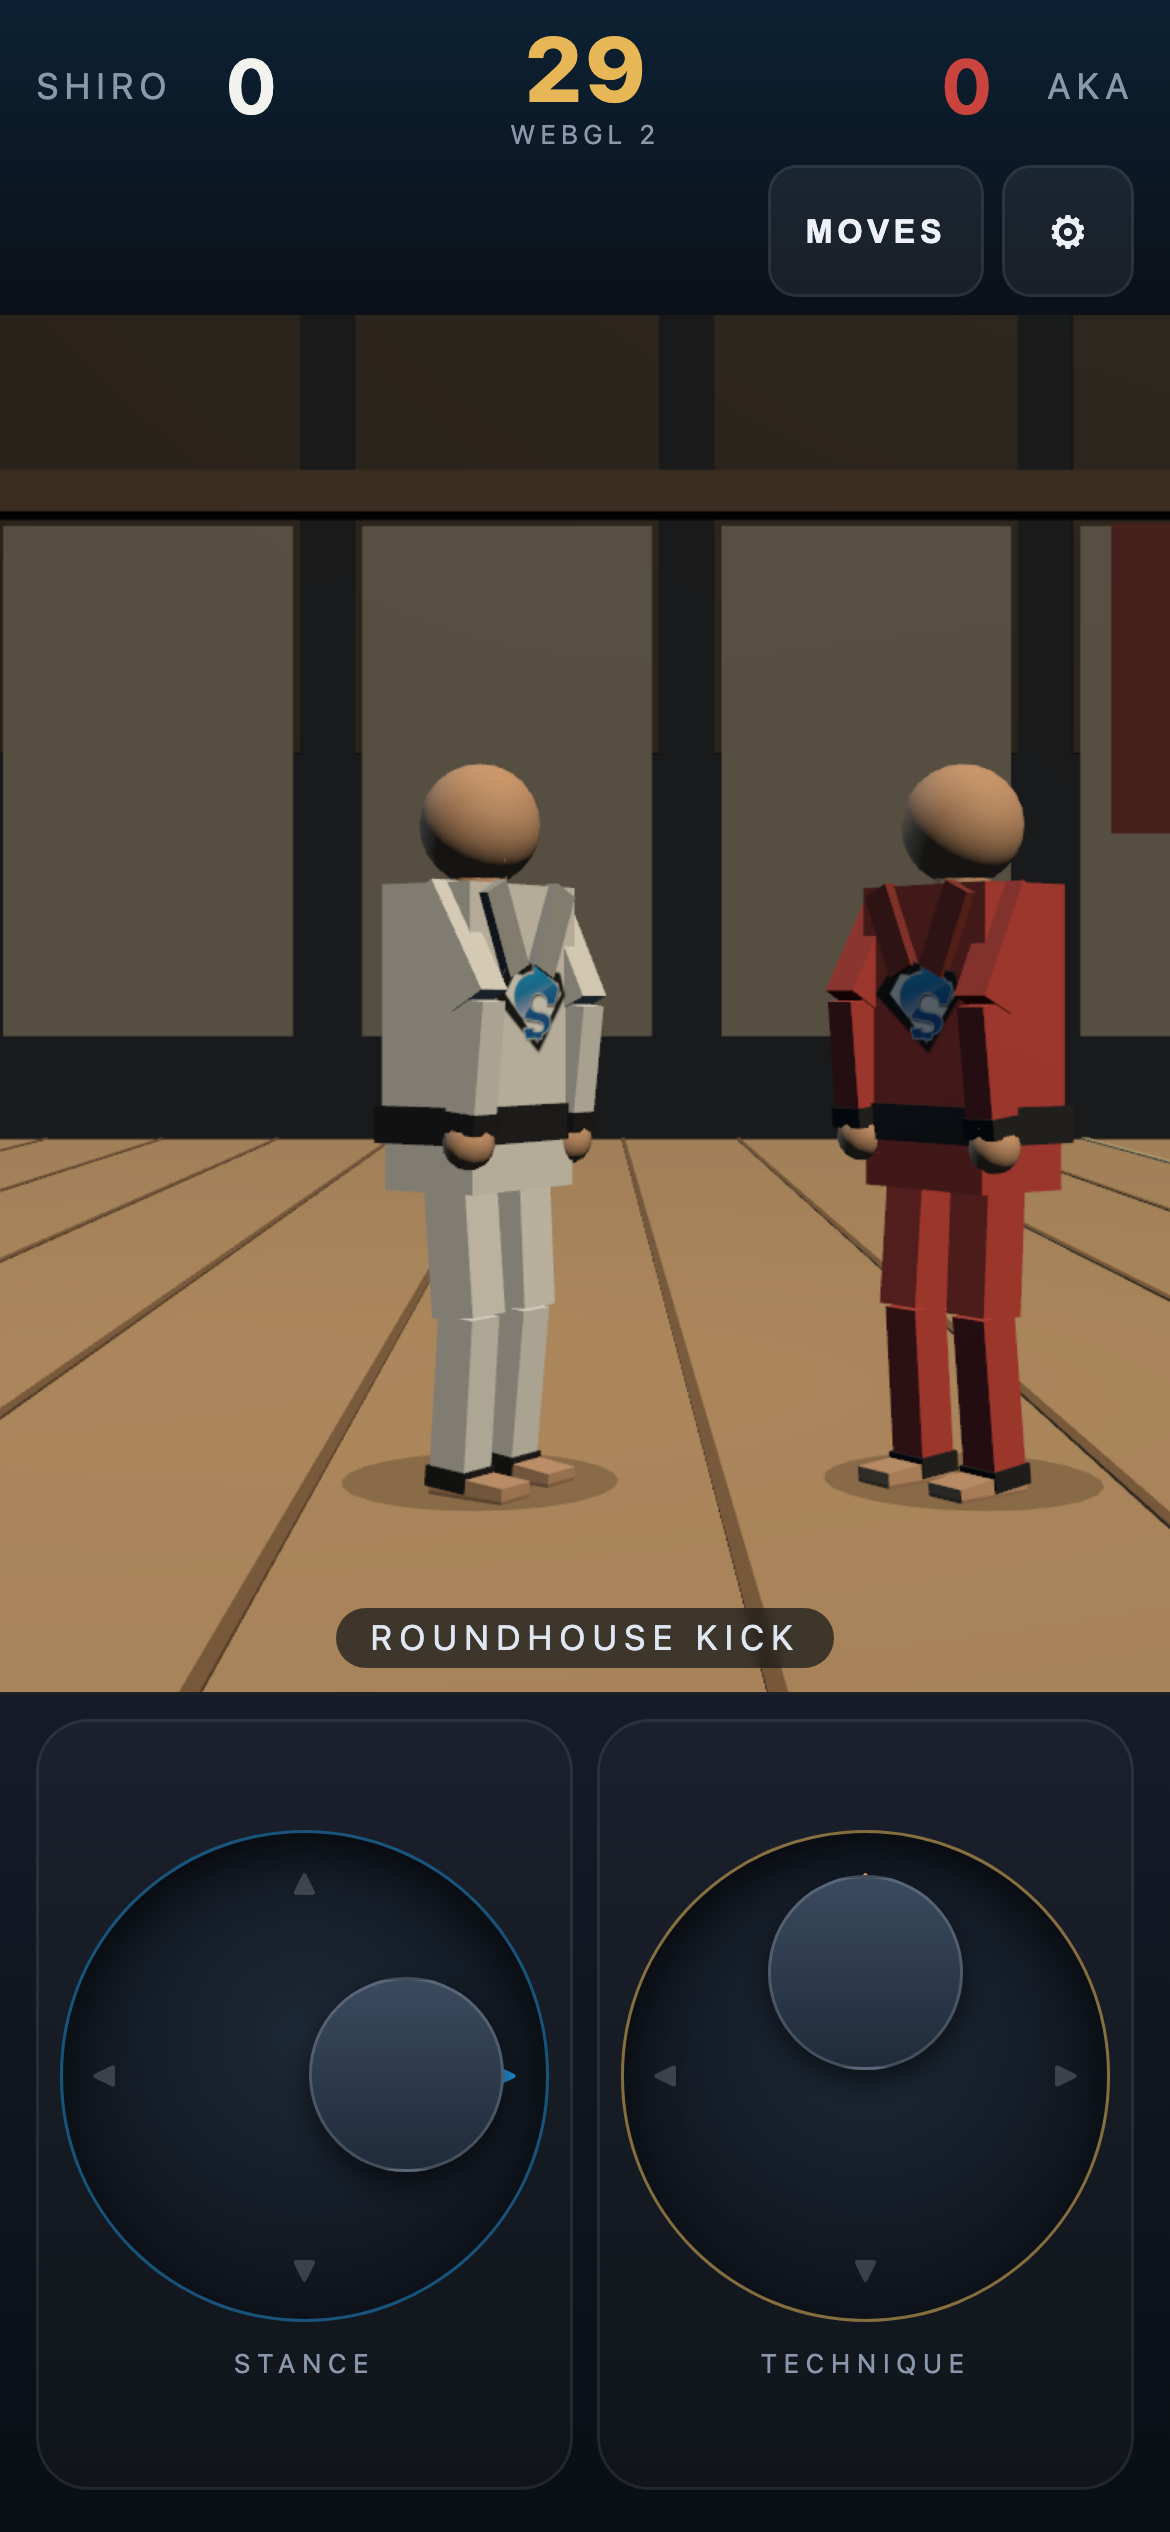
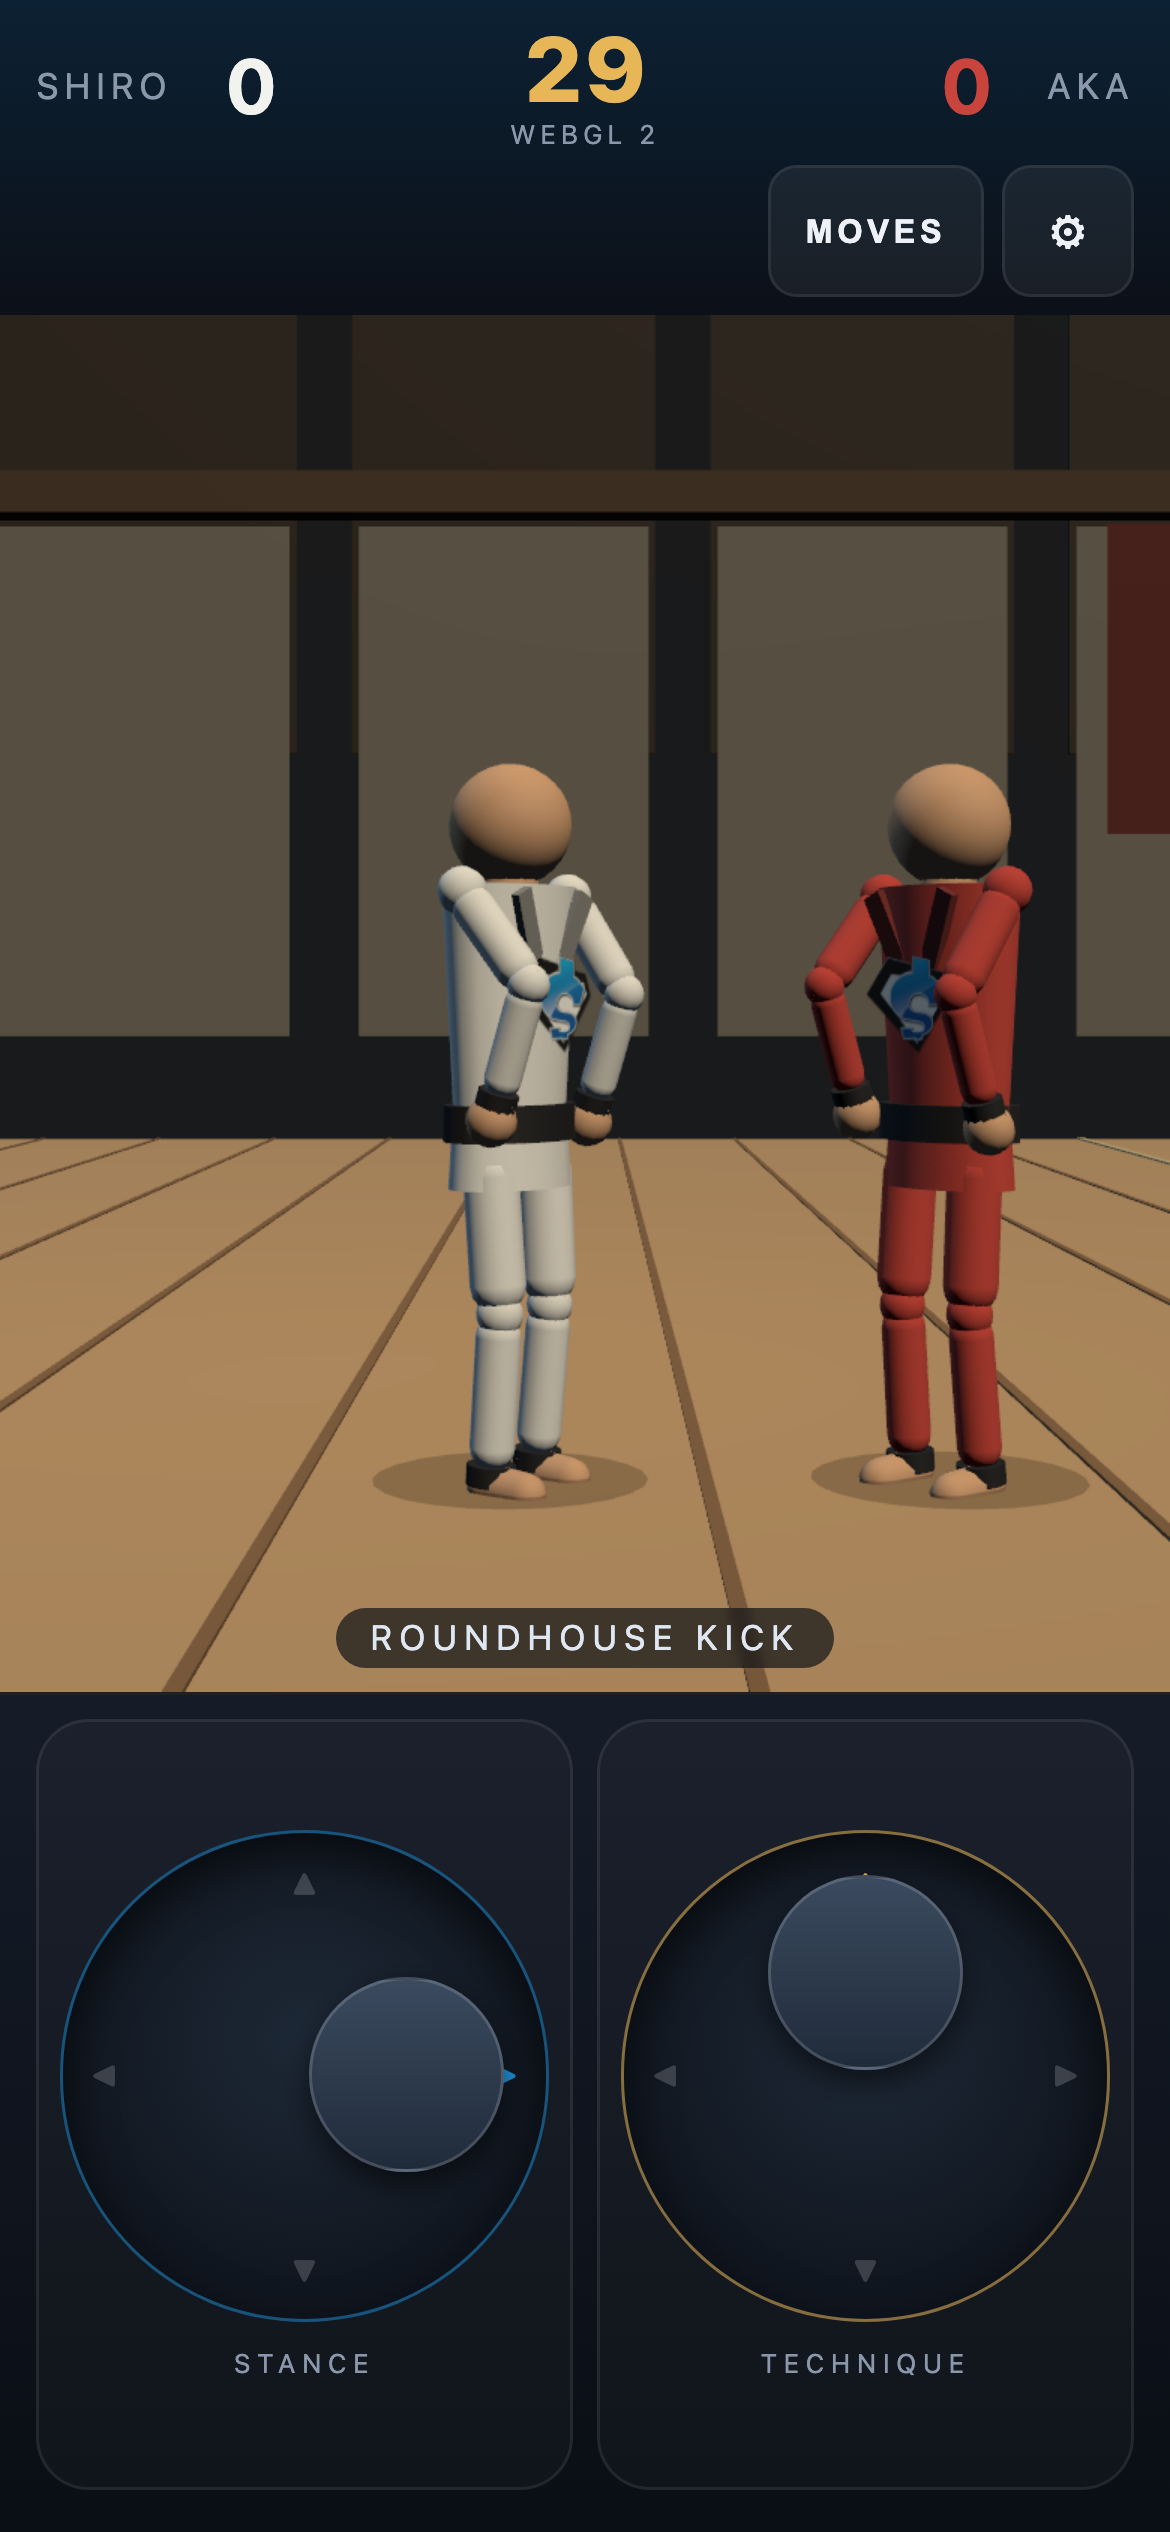
fix: 🥋 round off the fighters and stop the CI bout timing out
The karate people were, accurately, squares. Boxes for every limb, a box for
the torso, a brick for each foot.

🫱 Round stock instead of lumber
Limbs are capsules, so joints meet in a curve rather than a corner. The torso
and hips are cylinders squashed onto an ellipse and tapered from chest to
waist, with sphere caps at the shoulders, elbows and knees. Feet are capsules
laid on their side. The lapel had to move with them: parked at the centre-line
depth it floated in front of an elliptical ribcage, so it now sits on the real
surface, darker, and reads as a collar rather than a bib.

✊ The guard reads as a stance
Hands sat at belt height, which looked like standing at attention. They come up
in front of the chest now — and the arms sit outboard of the torso, so the
emblem stays legible behind them.

🏷 MOVES, not 架
An unlabelled kanji is a guess for most players. The technique caption also got
its own ground: on bare mat it was invisible.

🤖 Why CI went red on a green tree
The bout test walked to one exact distance and threw one technique. The clock
drains up to five ticks per frame, so on a software-rendered runner the fighter
crosses a narrow window between two polls, misses, and keeps missing until the
30-second bout timer ends it in a draw. It now picks the technique that suits
the gap it is ALREADY at — roundhouse, front kick or lunge punch — which
removes the race and exercises three techniques instead of one.
[…]

diff --git a/apps/game/src/rig.ts b/apps/game/src/rig.ts
@@ -1,5 +1,6 @@
 import {
   BoxGeometry,
+  CapsuleGeometry,
   CylinderGeometry,
   Group,
   Mesh,
@@ -77,8 +78,8 @@ const MOVE_KIND: Readonly<Record<string, TechniqueKind>> = {
   low_block: 'block',
 };
 
-const GUARD_SHOULDER = 0.52;
-const GUARD_ELBOW = -0.62;
+const GUARD_SHOULDER = 0.72;
+const GUARD_ELBOW = -1.05;
 const GUARD_HIP = 0.08;
 const GUARD_KNEE = -0.15;
 
@@ -181,21 +182,29 @@ const LEG_TWIST = 0.16;
 
 /** Shared across every rig: shape never varies with fighter or colour. */
 const geometry = {
-  torso: new BoxGeometry(0.27, 0.6, 0.42),
-  hips: new BoxGeometry(0.27, 0.2, 0.4),
-  sash: new BoxGeometry(0.29, 0.09, 0.46),
-  lapel: new BoxGeometry(0.035, 0.22, 0.08),
-  neck: new CylinderGeometry(0.065, 0.075, 0.12, 10),
-  head: new SphereGeometry(0.15, 16, 12),
-  upperArm: new BoxGeometry(0.1, 0.3, 0.1),
-  forearm: new BoxGeometry(0.085, 0.28, 0.085),
-  hand: new SphereGeometry(0.062, 10, 8),
-  thigh: new BoxGeometry(0.125, 0.4, 0.125),
-  shin: new BoxGeometry(0.105, 0.38, 0.105),
-  foot: new BoxGeometry(0.22, 0.06, 0.11),
-  cuff: new BoxGeometry(1, 1, 1),
+  // Round stock, not lumber. The torso and hips are cylinders squashed on x
+  // into an ellipse, tapered from chest to waist; limbs are capsules so the
+  // joints meet in a curve instead of a corner.
+  torso: new CylinderGeometry(0.21, 0.172, 0.6, 18, 1),
+  hips: new CylinderGeometry(0.178, 0.192, 0.2, 16, 1),
+  sash: new CylinderGeometry(0.206, 0.206, 0.09, 18, 1),
+  lapel: new BoxGeometry(0.022, 0.2, 0.055),
+  neck: new CylinderGeometry(0.062, 0.078, 0.13, 12),
+  head: new SphereGeometry(0.152, 20, 16),
+  shoulderCap: new SphereGeometry(0.06, 12, 10),
+  upperArm: new CapsuleGeometry(0.052, 0.196, 4, 12),
+  forearm: new CapsuleGeometry(0.045, 0.19, 4, 12),
+  hand: new SphereGeometry(0.062, 12, 10),
+  kneeCap: new SphereGeometry(0.058, 12, 10),
+  thigh: new CapsuleGeometry(0.069, 0.262, 4, 12),
+  shin: new CapsuleGeometry(0.056, 0.268, 4, 12),
+  foot: new CapsuleGeometry(0.055, 0.11, 4, 10),
+  cuff: new CylinderGeometry(1, 1, 1, 14),
   emblem: new PlaneGeometry(0.31, 0.31),
 };
+
+/** Chest and hips are elliptical: narrow front-to-back, broad shoulder to shoulder. */
+const TORSO_SQUASH = 0.64;
 
 /** Colour never varies with fighter for these: one instance, every rig. */
 const skinMaterial = new MeshStandardMaterial({ color: '#d8a882', roughness: 0.75 });
@@ -223,7 +232,7 @@ function paint(color: string, roughness: number): MeshStandardMaterial {
 /** A cuff/trim band, its size baked into the mesh scale so the geometry stays shared. */
 function band(material: MeshStandardMaterial, width: number, depth: number): Mesh {
   const mesh = new Mesh(geometry.cuff, material);
-  mesh.scale.set(width, 0.05, depth);
+  mesh.scale.set(width / 2, 0.05, depth / 2);
   return mesh;
 }
 
@@ -254,7 +263,7 @@ export class FighterRig {
     const trim = paint(spec.beltColor, 0.7);
     // A gi lapel is a seam in the same cloth, not a black strap. Belt-coloured
     // strips across the chest read as a harness and swallow the emblem.
-    const lapelCloth = paint(shade(spec.giColor, 0.72), 0.9);
+    const lapelCloth = paint(shade(spec.giColor, 0.58), 0.95);
 
     this.body.add(this.hipsPivot, this.torsoPivot);
     this.root.add(this.body);
@@ -262,25 +271,30 @@ export class FighterRig {
     // Hips carry the belt and stay put under the torso twist so a strike
     // reads as the shoulders and hips rotating together, feet still planted.
     const hips = new Mesh(geometry.hips, gi);
+    hips.scale.x = TORSO_SQUASH;
     hips.position.y = 0.84;
     this.hipsPivot.add(hips);
 
     const sash = new Mesh(geometry.sash, trim);
+    sash.scale.x = TORSO_SQUASH;
     sash.position.y = 0.9;
     this.hipsPivot.add(sash);
 
     const torso = new Mesh(geometry.torso, gi);
+    torso.scale.x = TORSO_SQUASH;
     torso.position.y = 1.18;
     this.torsoPivot.add(torso);
 
     // An open V at the collar, not an X across the sternum. The lapels stop
     // above the chest plate on purpose: the emblem owns that space.
+    // The torso is an ellipse now, so the chest surface falls away from centre.
+    // A lapel parked at the centre-line depth would float in front of the ribs.
     const lapelLeft = new Mesh(geometry.lapel, lapelCloth);
-    lapelLeft.position.set(0.144, 1.37, 0.095);
-    lapelLeft.rotation.x = 0.42;
+    lapelLeft.position.set(0.122, 1.37, 0.088);
+    lapelLeft.rotation.set(0.42, 0, -0.1);
     const lapelRight = new Mesh(geometry.lapel, lapelCloth);
-    lapelRight.position.set(0.144, 1.37, -0.095);
-    lapelRight.rotation.x = -0.42;
+    lapelRight.position.set(0.122, 1.37, -0.088);
+    lapelRight.rotation.set(-0.42, 0, -0.1);
     this.torsoPivot.add(lapelLeft, lapelRight);
 
     const neck = new Mesh(geometry.neck, skinMaterial);
@@ -305,7 +319,7 @@ export class FighterRig {
     );
     this.emblem.name = 'gi-emblem';
     this.emblem.rotation.y = Math.PI / 2;
-    this.emblem.position.set(0.152, 1.19, 0);
+    this.emblem.position.set(0.139, 1.19, 0);
     this.torsoPivot.add(this.emblem);
 
     this.leadArm = this.buildArm(gi, trim, 0.215);
@@ -319,6 +333,9 @@ export class FighterRig {
     shoulder.position.set(0.02, 1.46, z);
     this.torsoPivot.add(shoulder);
 
+    const shoulderCap = new Mesh(geometry.shoulderCap, gi);
+    shoulder.add(shoulderCap);
+
     const upperArm = new Mesh(geometry.upperArm, gi);
     upperArm.position.y = -0.15;
     shoulder.add(upperArm);
@@ -326,6 +343,10 @@ export class FighterRig {
     const elbow = new Group();
     elbow.position.y = -0.3;
     shoulder.add(elbow);
+
+    const elbowCap = new Mesh(geometry.shoulderCap, gi);
+    elbowCap.scale.setScalar(0.85);
+    elbow.add(elbowCap);
 
     const forearm = new Mesh(geometry.forearm, gi);
     forearm.position.y = -0.14;
@@ -355,6 +376,9 @@ export class FighterRig {
     knee.position.y = -0.4;
     hip.add(knee);
 
+    const kneeCap = new Mesh(geometry.kneeCap, gi);
+    knee.add(kneeCap);
+
     const shin = new Mesh(geometry.shin, gi);
     shin.position.y = -0.19;
     knee.add(shin);
@@ -364,7 +388,10 @@ export class FighterRig {
     knee.add(cuff);
 
     const foot = new Mesh(geometry.foot, skinMaterial);
-    foot.position.set(0.06, -0.41, 0);
+    foot.rotation.z = Math.PI / 2;
+    foot.scale.y = 1;
+    foot.scale.z = 0.92;
+    foot.position.set(0.05, -0.42, 0);
     knee.add(foot);
 
     return { hip, knee };

diff --git a/apps/game/tests/e2e/touch-bout.spec.ts b/apps/game/tests/e2e/touch-bout.spec.ts
@@ -1,5 +1,5 @@
 import { expect, test } from '@playwright/test';
-import { Thumbs, anchorOf, hold } from './thumbs.js';
+import { Thumbs, anchorOf, hold, type Dir } from './thumbs.js';
 
 interface Snapshot {
   phase: string;
@@ -8,12 +8,27 @@ interface Snapshot {
   winner: number | null;
 }
 
-/** Roundhouse lands from roughly this far out once the step is counted in. */
-const STRIKE_GAP = { min: 1.95, max: 2.45 };
+/**
+ * Reach windows measured from the content table, widest first.
+ *
+ * Walking to one exact distance is not robust: the clock drains up to five
+ * ticks in a frame, so on a slow machine the fighter can cross a narrow window
+ * between two polls and never fire. Picking the technique that suits the gap
+ * the fighter is ALREADY at removes the race, and exercises three techniques
+ * instead of one.
+ */
+const STRIKES: ReadonlyArray<{ name: string; min: number; max: number; stance: Dir; technique: Dir }> = [
+  { name: 'roundhouse_kick', min: 2.0, max: 2.7, stance: 'right', technique: 'up' },
+  { name: 'front_kick', min: 1.6, max: 2.0, stance: 'neutral', technique: 'up' },
+  { name: 'lunge_punch', min: 1.2, max: 1.6, stance: 'neutral', technique: 'right' },
+];
+
+/** Beyond this the fighter has to close before anything can land. */
+const MAX_REACH = 2.7;
 
 test('a bout is won end to end with nothing but two thumbs', async ({ page }, info) => {
   test.skip(info.project.name !== 'phone-portrait', 'touch is the phone contract');
-  test.setTimeout(120_000);
+  test.setTimeout(300_000);
 
   await page.goto('/?mode=dojo');
   await page.waitForFunction(() => (globalThis as Record<string, any>)['__smkk']?.ready === true);
@@ -26,10 +41,10 @@ test('a bout is won end to end with nothing but two thumbs', async ({ page }, in
     page.evaluate(() => (globalThis as Record<string, any>)['__smkk'].state() as Snapshot);
 
   await page.waitForFunction(
-    () => (globalThis as Record<string, any>)['__smkk'].state().phase === 'fight',
+    () => (globalThis as Record<string, any>)['__smkk']?.state?.().phase === 'fight',
   );
 
-  const deadline = Date.now() + 90_000;
+  const deadline = Date.now() + 210_000;
   let strikesThrown = 0;
 
   while (Date.now() < deadline) {
@@ -44,24 +59,25 @@ test('a bout is won end to end with nothing but two thumbs', async ({ page }, in
 
     const gap = snapshot.positions[1] - snapshot.positions[0];
 
-    if (gap > STRIKE_GAP.max) {
+    if (gap > MAX_REACH) {
       await hold(thumbs, stance, 'right');
-      await page.waitForTimeout(50);
-      continue;
-    }
-    if (gap < STRIKE_GAP.min) {
-      await hold(thumbs, stance, 'left');
-      await page.waitForTimeout(50);
+      await page.waitForTimeout(40);
       continue;
     }
 
-    // Left stick forward qualifies the right-stick-up family into a roundhouse.
-    await hold(thumbs, stance, 'right');
-    await hold(thumbs, technique, 'up');
+    const strike = STRIKES.find((candidate) => gap >= candidate.min && gap <= candidate.max);
+    if (strike === undefined) {
+      await hold(thumbs, stance, 'left');
+      await page.waitForTimeout(40);
+      continue;
+    }
+
+    await hold(thumbs, stance, strike.stance);
+    await hold(thumbs, technique, strike.technique);
     strikesThrown += 1;
-    await page.waitForTimeout(130);
+    await page.waitForTimeout(140);
     await thumbs.release();
-    await page.waitForTimeout(260);
+    await page.waitForTimeout(240);
   }
 
   await thumbs.release();
@@ -78,7 +94,7 @@ test('the stance stick moves the fighter and the technique stick does not', asyn
 
   await page.goto('/?mode=dojo');
   await page.waitForFunction(
-    () => (globalThis as Record<string, any>)['__smkk'].state().phase === 'fight',
+    () => (globalThis as Record<string, any>)['__smkk']?.state?.().phase === 'fight',
   );
 
   const thumbs = await Thumbs.attach(page);

diff --git a/apps/game/tests/e2e/capture.spec.ts b/apps/game/tests/e2e/capture.spec.ts
@@ -14,7 +14,7 @@ test('captures the portrait preview frame', async ({ page }, info) => {
 
   await page.goto('/?mode=dojo');
   await page.waitForFunction(
-    () => (globalThis as Record<string, any>)['__smkk'].state().phase === 'fight',
+    () => (globalThis as Record<string, any>)['__smkk']?.state?.().phase === 'fight',
   );
 
   const thumbs = await Thumbs.attach(page);
